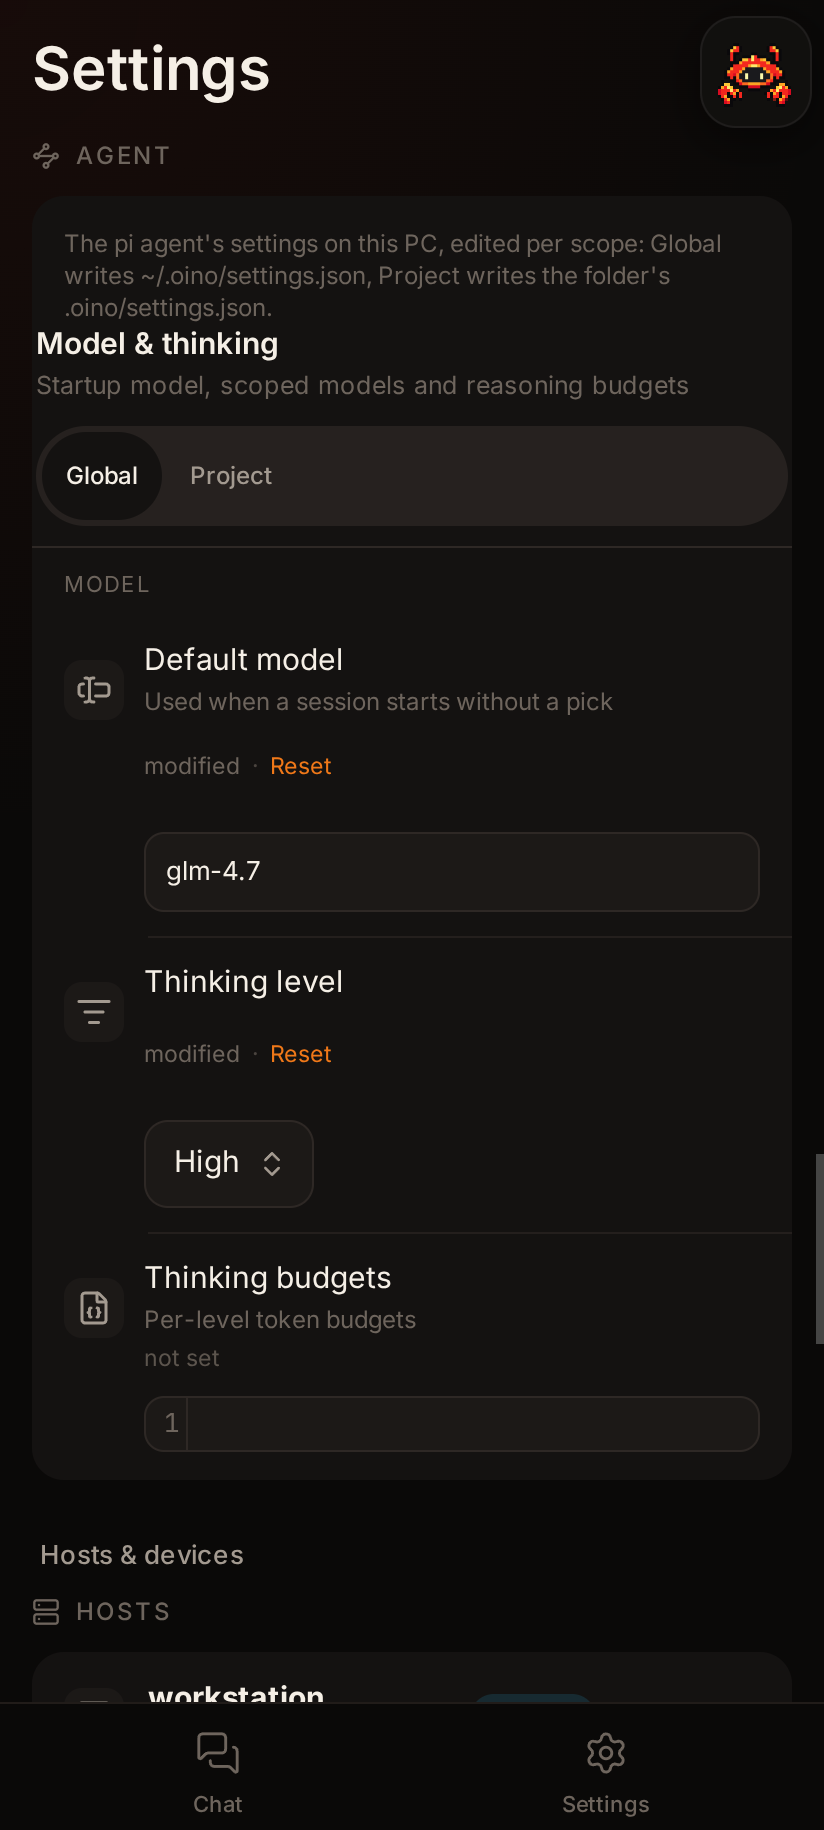
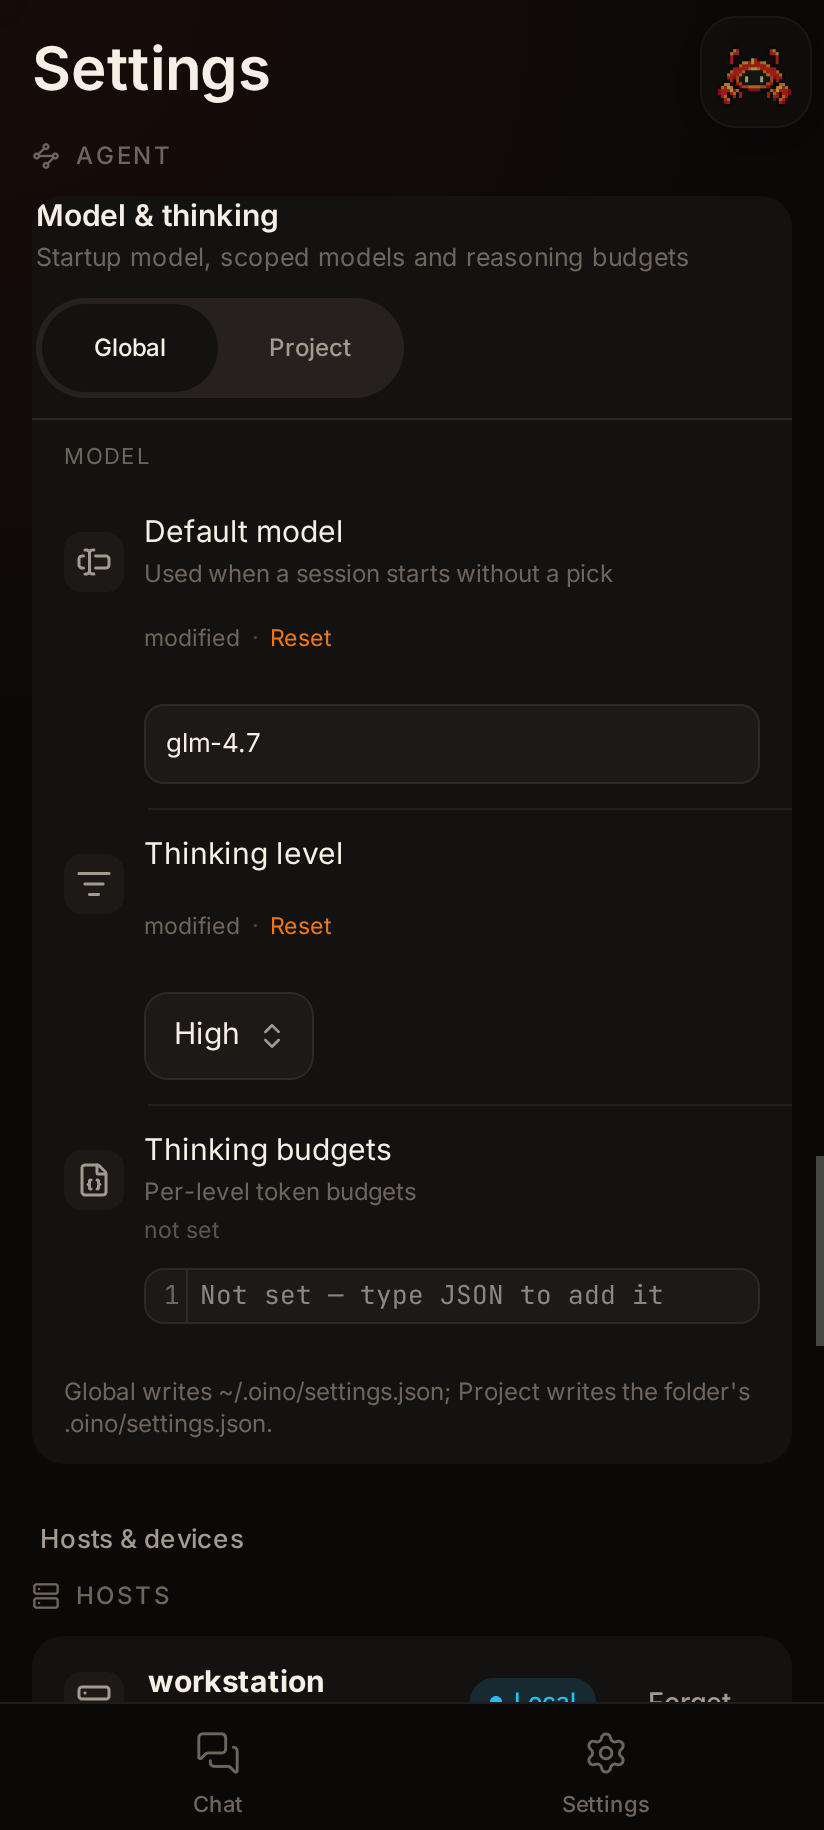
[app-u11] form polish: phone scope toggle, JSON placeholder, Agent note footer, resilient capture driver
- Phone: the Global | Project toggle hugs its content (min 88 px per option)
  instead of stretching across the card; the JSON escape hatch shows
  "Not set — type JSON to add it" while the key is absent.
- Agent: the per-scope note moves to the card footer (A24's pattern) so the
  namespace title is the first thing in the section.
- u11-capture.mjs: one CDP connection per round with reconnect + per-shot
  retries, so an owner-browser restart (or a concurrent capture) no longer
  ends the run; all ten desktop/phone shots recaptured.

diff --git a/apps/unipi/src/ui/settings/complex.tsx b/apps/unipi/src/ui/settings/complex.tsx
@@ -5,7 +5,7 @@
  */
 import { For, Show, createEffect, createMemo, createSignal, onCleanup, onMount } from 'solid-js';
 import { EditorState } from '@codemirror/state';
-import { EditorView, keymap, lineNumbers } from '@codemirror/view';
+import { EditorView, keymap, lineNumbers, placeholder } from '@codemirror/view';
 import { defaultKeymap, history, historyKeymap } from '@codemirror/commands';
 import { json as jsonLang } from '@codemirror/lang-json';
 import { ChevronDown, ChevronUp, Minus, Plus, Search, Trash2 } from 'lucide-solid';
@@ -437,6 +437,7 @@ function JsonField(props: { field: Field; value: Json; disabled: boolean; set: (
         keymap.of([...defaultKeymap, ...historyKeymap]),
         jsonLang(),
         ...(settings.appearance.codeWrap ? [EditorView.lineWrapping] : []),
+        placeholder('Not set — type JSON to add it'),
         EditorView.theme({
           '&': { fontSize: `${settings.appearance.codeFontSize}px`, maxHeight: '220px' },
           '.cm-scroller': { fontFamily: 'var(--font-mono)', overflow: 'auto' },

diff --git a/apps/unipi/src/screens/settings/AgentSection.tsx b/apps/unipi/src/screens/settings/AgentSection.tsx
@@ -53,14 +53,12 @@ export function AgentSection() {
         when={core().length > 0}
         fallback={<PiKeyList hostId={hostId()} />}
       >
-        <div class="px-4 pt-4">
-          <p class="text-xs text-text-dim" data-testid="agent-form-note">
-            The pi agent's settings on this PC, edited per scope: Global writes ~/.oino/settings.json, Project writes the folder's .oino/settings.json.
-          </p>
-        </div>
         <div class="settings-form-list">
           <SettingsSections namespaces={core()} flat empty="No agent settings on this PC yet" />
         </div>
+        <p class="px-4 py-3 text-xs text-text-dim" data-testid="agent-form-note">
+          Global writes ~/.oino/settings.json; Project writes the folder's .oino/settings.json.
+        </p>
       </Show>
     </Section>
   );

diff --git a/apps/unipi/src/ui/settings/settings-form.css b/apps/unipi/src/ui/settings/settings-form.css
@@ -136,7 +136,8 @@ html:not([data-shell=desktop]) .settings-number-input { width: 72px; min-height:
 html:not([data-shell=desktop]) .settings-select { min-width: 0; }
 html:not([data-shell=desktop]) .settings-list-row .settings-key { flex-basis: 96px; }
 html:not([data-shell=desktop]) .settings-row.settings-field { gap: 10px; }
-html:not([data-shell=desktop]) .settings-scope-option { height: 32px; }
+html:not([data-shell=desktop]) .settings-scope { align-self: flex-start; }
+html:not([data-shell=desktop]) .settings-scope-option { height: 32px; min-width: 88px; }
 html:not([data-shell=desktop]) .settings-order-row { min-height: 44px; }
 html:not([data-shell=desktop]) .settings-iconbtn { width: 36px; height: 36px; }
 
